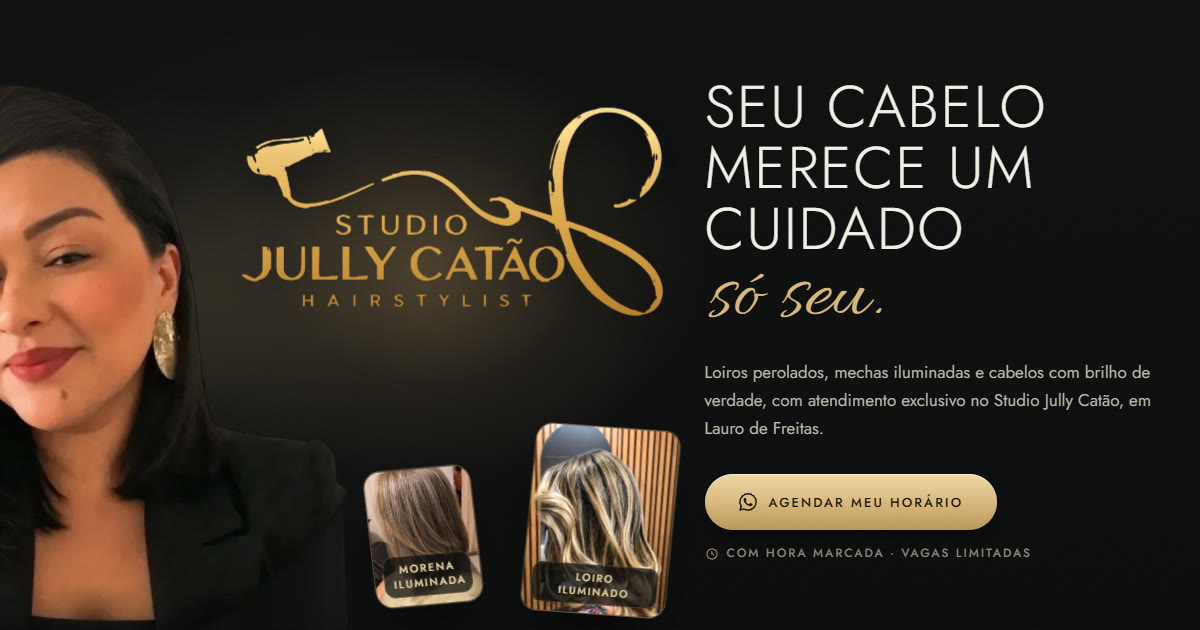
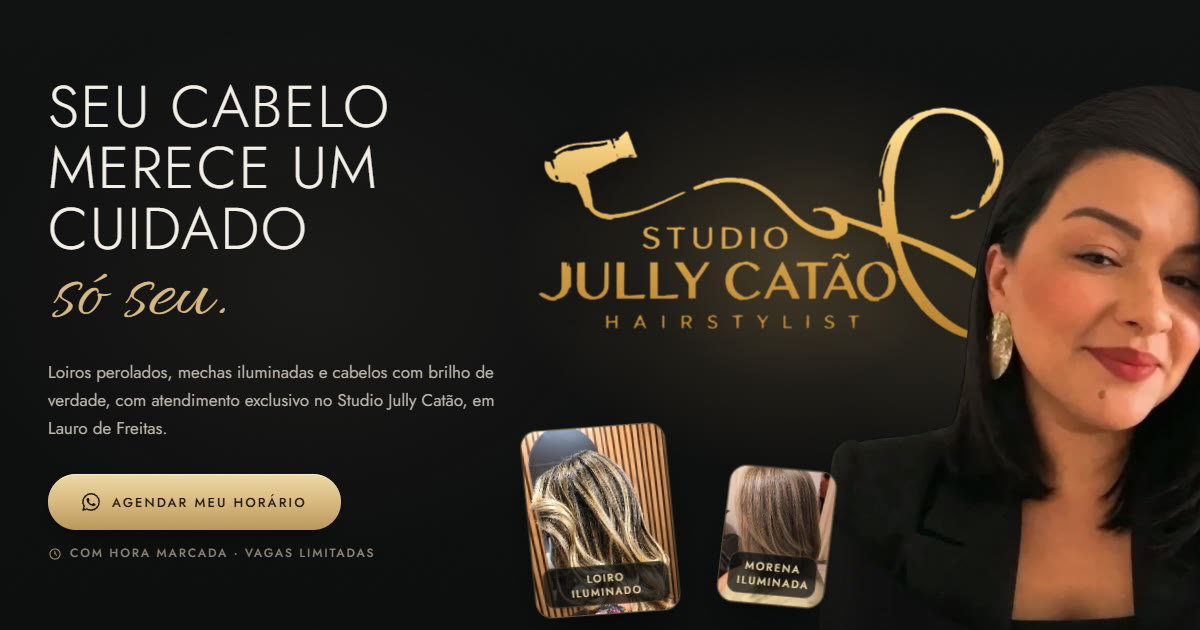
Prévia: capa de volta com o texto à esquerda e a Jully à direita

diff --git a/index.html b/index.html
@@ -256,7 +256,7 @@
     }
     .hero__grade {
       display: grid;
-      grid-template-columns: minmax(0, 7fr) minmax(0, 5fr);
+      grid-template-columns: minmax(0, 5fr) minmax(0, 7fr);
       align-items: end;
       gap: clamp(16px, 2.5vw, 40px);
     }
@@ -284,8 +284,7 @@
     .hero__cena {
       position: relative;
       aspect-ratio: 1.08 / 1;
-      order: -1;
-      margin-left: calc(var(--gutter) * -1);
+      margin-right: calc(var(--gutter) * -1);
       perspective: 1400px;
       --mx: 0; --my: 0; --sy: 0;
     }
@@ -298,19 +297,19 @@
     }
     /* Luz quente de parede atrás do letreiro */
     .hero__luz {
-      position: absolute; left: 20%; top: -4%; width: 88%; height: 72%;
+      position: absolute; left: -6%; top: -4%; width: 92%; height: 72%;
       background: radial-gradient(closest-side, rgba(222, 178, 112, .3), rgba(222, 178, 112, .08) 55%, transparent);
       pointer-events: none;
       --k: .2; --z: -90px; --ks: 70;
     }
     /* Halo quente atrás da Jully: separa o cabelo e o blazer pretos do fundo preto */
     .hero__aura {
-      position: absolute; left: -10%; top: 2%; width: 66%; height: 72%;
+      position: absolute; right: -10%; top: 2%; width: 66%; height: 72%;
       background: radial-gradient(closest-side, rgba(216, 183, 125, .14), rgba(216, 183, 125, .04) 60%, transparent);
       pointer-events: none;
       --k: .4; --z: -60px; --ks: 40;
     }
-    .hero__letreiro { position: absolute; left: 35%; top: 6%; width: 65%; --k: .35; --z: -40px; --ks: 55; }
+    .hero__letreiro { position: absolute; left: 0; top: 6%; width: 72%; --k: .35; --z: -40px; --ks: 55; }
     .hero__letreiro img { width: 100%; filter: drop-shadow(0 6px 18px rgba(0, 0, 0, .45)); }
     /* Brilho que passa uma vez pelas letras (só aparece se o navegador aceitar máscara) */
     .hero__brilho {
@@ -321,26 +320,25 @@
       opacity: 0;
     }
     /* A Jully passa da borda de baixo da capa e some só no fim, atrás da faixa */
-    /* foto espelhada: ela fica à esquerda olhando para o texto */
-    .hero__jully { position: absolute; left: -24%; top: 0; width: 80%; --fade-ini: 74%; --fade-fim: 90%; --k: .7; --z: 0px; --ks: 15; }
+    /* A Jully passa da borda direita e da de baixo da capa e some só no fim, atrás da faixa */
+    .hero__jully { position: absolute; right: -19%; top: 0; width: 80%; --fade-ini: 74%; --fade-fim: 90%; --k: .7; --z: 0px; --ks: 15; }
     .hero__jully img {
       width: 100%;
-      transform: scaleX(-1);
       -webkit-mask-image: linear-gradient(180deg, #000 var(--fade-ini), transparent var(--fade-fim));
       mask-image: linear-gradient(180deg, #000 var(--fade-ini), transparent var(--fade-fim));
     }
     /* Cartões flutuantes com trabalhos reais, à frente da Jully */
     .hero__card { position: absolute; width: 21%; transform-style: preserve-3d; }
-    .hero__card--a { right: 3%; bottom: 14%; --k: 1.2; --z: 90px; --ks: -80; }
-    .hero__card--b { right: 31%; bottom: 17%; width: 15%; --k: 1.5; --z: 130px; --ks: -130; }
+    .hero__card--a { left: 3%; bottom: 14%; --k: 1.2; --z: 90px; --ks: -80; }
+    .hero__card--b { left: 31%; bottom: 17%; width: 15%; --k: 1.5; --z: 130px; --ks: -130; }
     .hero__card-in {
       position: relative; aspect-ratio: 4 / 5; overflow: hidden;
       border: 1px solid var(--fio-forte); border-radius: 16px;
       box-shadow: 0 34px 50px -24px rgba(0, 0, 0, .9);
       transform: rotateY(var(--ry)) rotateX(var(--rx)) rotateZ(var(--rz));
     }
-    .hero__card--a .hero__card-in { --ry: -20deg; --rx: 6deg; --rz: 4deg; }
-    .hero__card--b .hero__card-in { --ry: 18deg; --rx: 8deg; --rz: -5deg; }
+    .hero__card--a .hero__card-in { --ry: 20deg; --rx: 6deg; --rz: -4deg; }
+    .hero__card--b .hero__card-in { --ry: -18deg; --rx: 8deg; --rz: 5deg; }
     .hero__card img { width: 100%; height: 100%; object-fit: cover; }
     .foco-alto { object-position: 50% 20%; }
     .hero__card figcaption {
@@ -673,8 +671,6 @@
       .para-voce__lista { grid-template-columns: repeat(2, 1fr); gap: 32px 40px; }
       .rodape__grade { grid-template-columns: 1fr 1fr; }
       .final__extras { grid-template-columns: 1fr; gap: 14px; }
-      .hero__jully { left: -12%; width: 76%; }
-      .hero__letreiro { left: 38%; width: 60%; }
       .incluso { grid-template-columns: 1fr; }
       .camadas { height: clamp(320px, 62vw, 400px); margin-bottom: 28px; --passo: 40px; }
       .camadas__palco { top: 60%; width: min(250px, 68%); }
@@ -706,11 +702,11 @@
       .hero { padding-top: var(--topo-h); }
       .hero__grade { grid-template-columns: 1fr; gap: 0; }
       .hero__cena { order: -1; margin-inline: calc(var(--gutter) * -1); aspect-ratio: 1 / .9; max-height: 560px; overflow: hidden; }
-      .hero__letreiro { left: 42%; top: 7%; width: 54%; }
-      .hero__luz { left: 10%; top: -6%; width: 100%; height: 70%; }
-      .hero__jully { left: -11%; top: 3%; width: 74%; --fade-ini: 62%; --fade-fim: 84%; }
-      .hero__aura { left: -14%; width: 80%; }
-      .hero__card--a { right: 5%; bottom: 11%; width: 21%; --z: 40px; }
+      .hero__letreiro { left: 5%; top: 6%; width: 61%; }
+      .hero__luz { left: -10%; top: -6%; width: 100%; height: 70%; }
+      .hero__jully { right: -6%; top: 3%; width: 76%; --fade-ini: 62%; --fade-fim: 84%; }
+      .hero__aura { right: -14%; width: 80%; }
+      .hero__card--a { left: 5%; bottom: 11%; width: 21%; --z: 40px; }
       .hero__card--b { display: none; }
       .hero__card figcaption { left: 5px; right: 5px; bottom: 5px; padding: 4px 5px; font-size: .625rem; letter-spacing: .08em; }
       .hero__texto { padding-block: 0 36px; }
@@ -744,6 +740,7 @@
 
     @media (min-width: 861px) and (max-width: 1100px) {
       .depoimentos__lista { grid-template-columns: 1fr; max-width: 640px; margin-inline: auto; }
+      .hero__jully { right: -10%; width: 76%; }   /* o rosto não encosta na borda */
     }
     @media (min-width: 601px) and (max-width: 860px) {
       .depoimentos__lista { grid-template-columns: 1fr; max-width: 640px; margin-inline: auto; }
